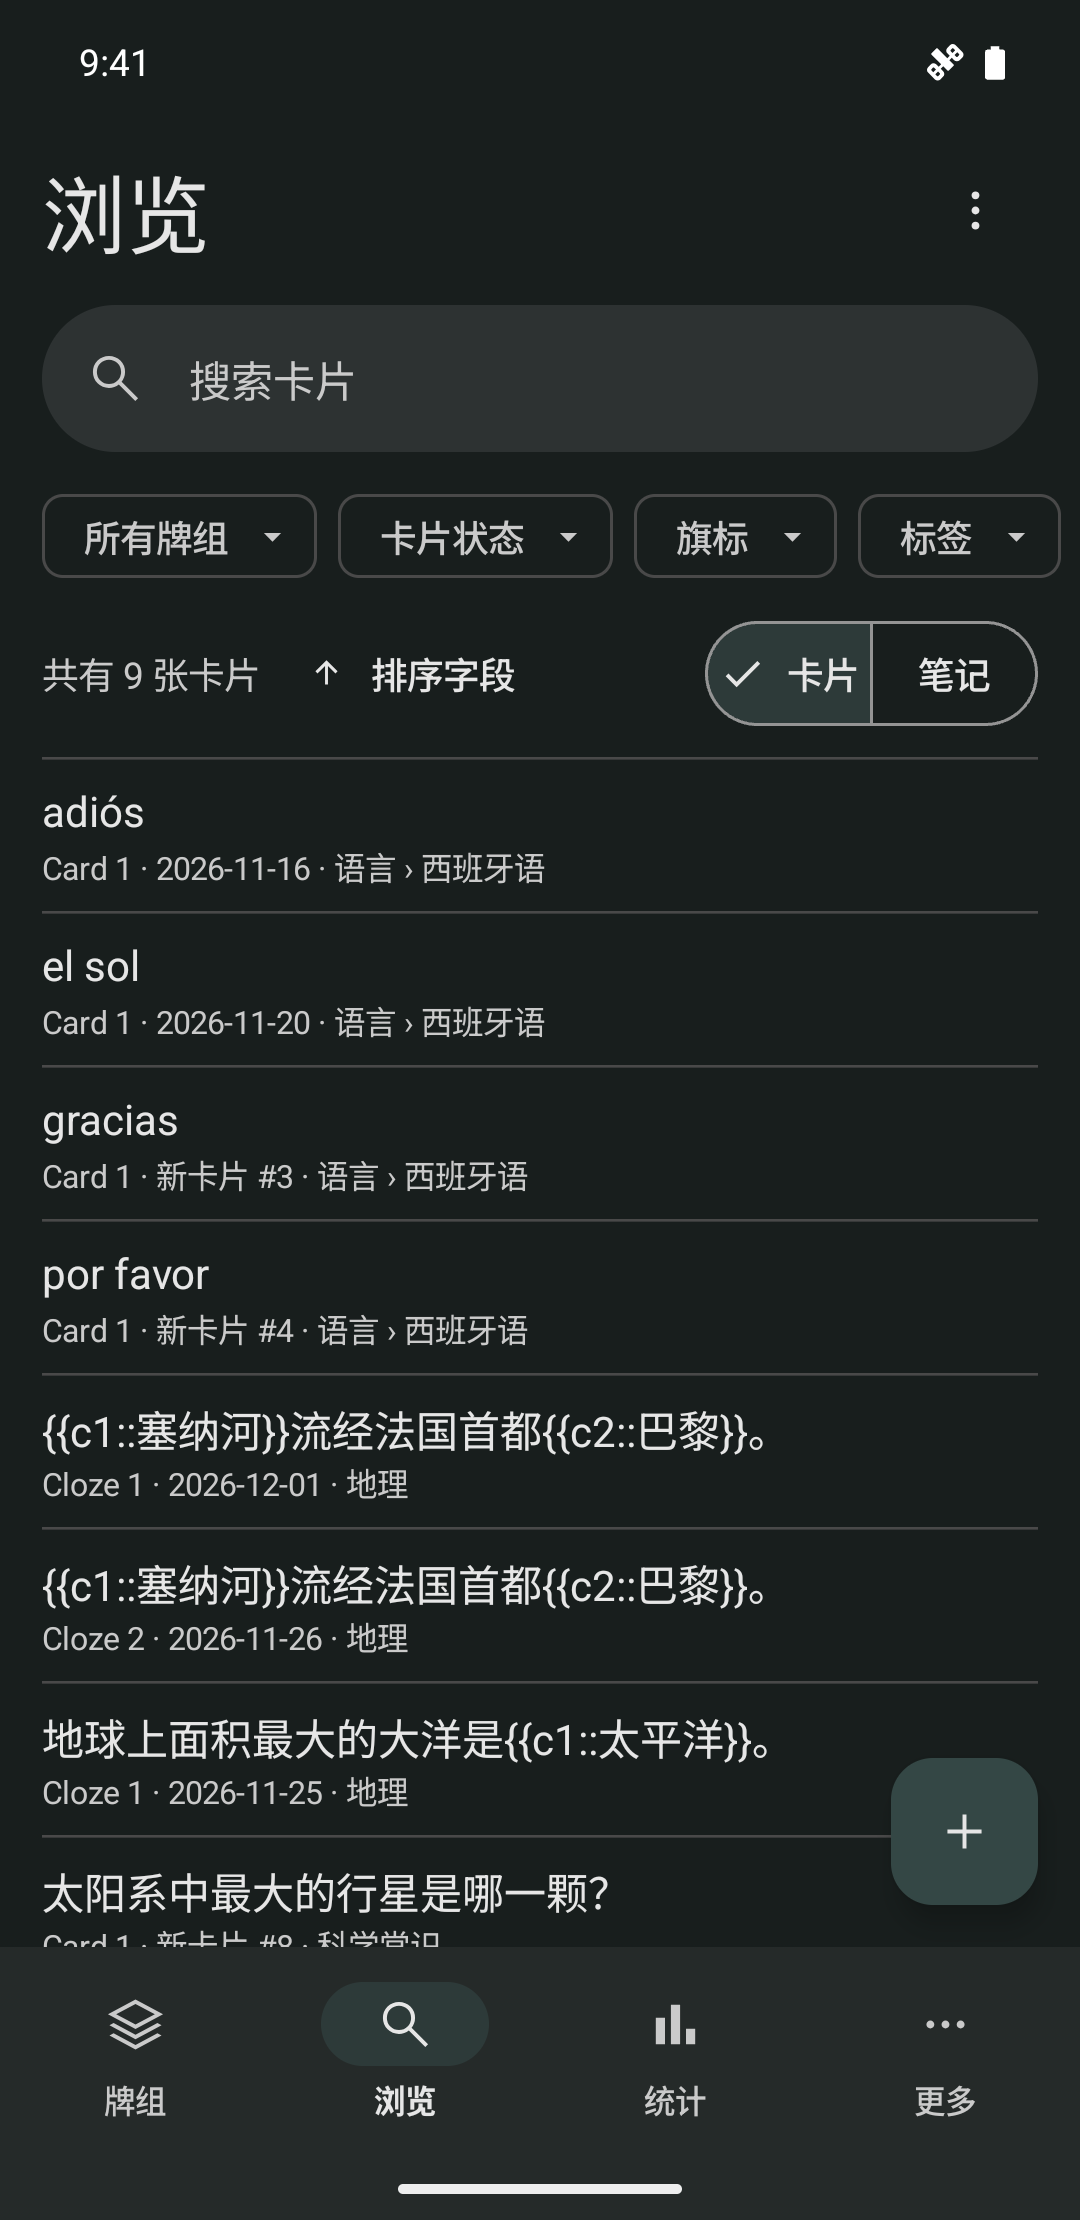
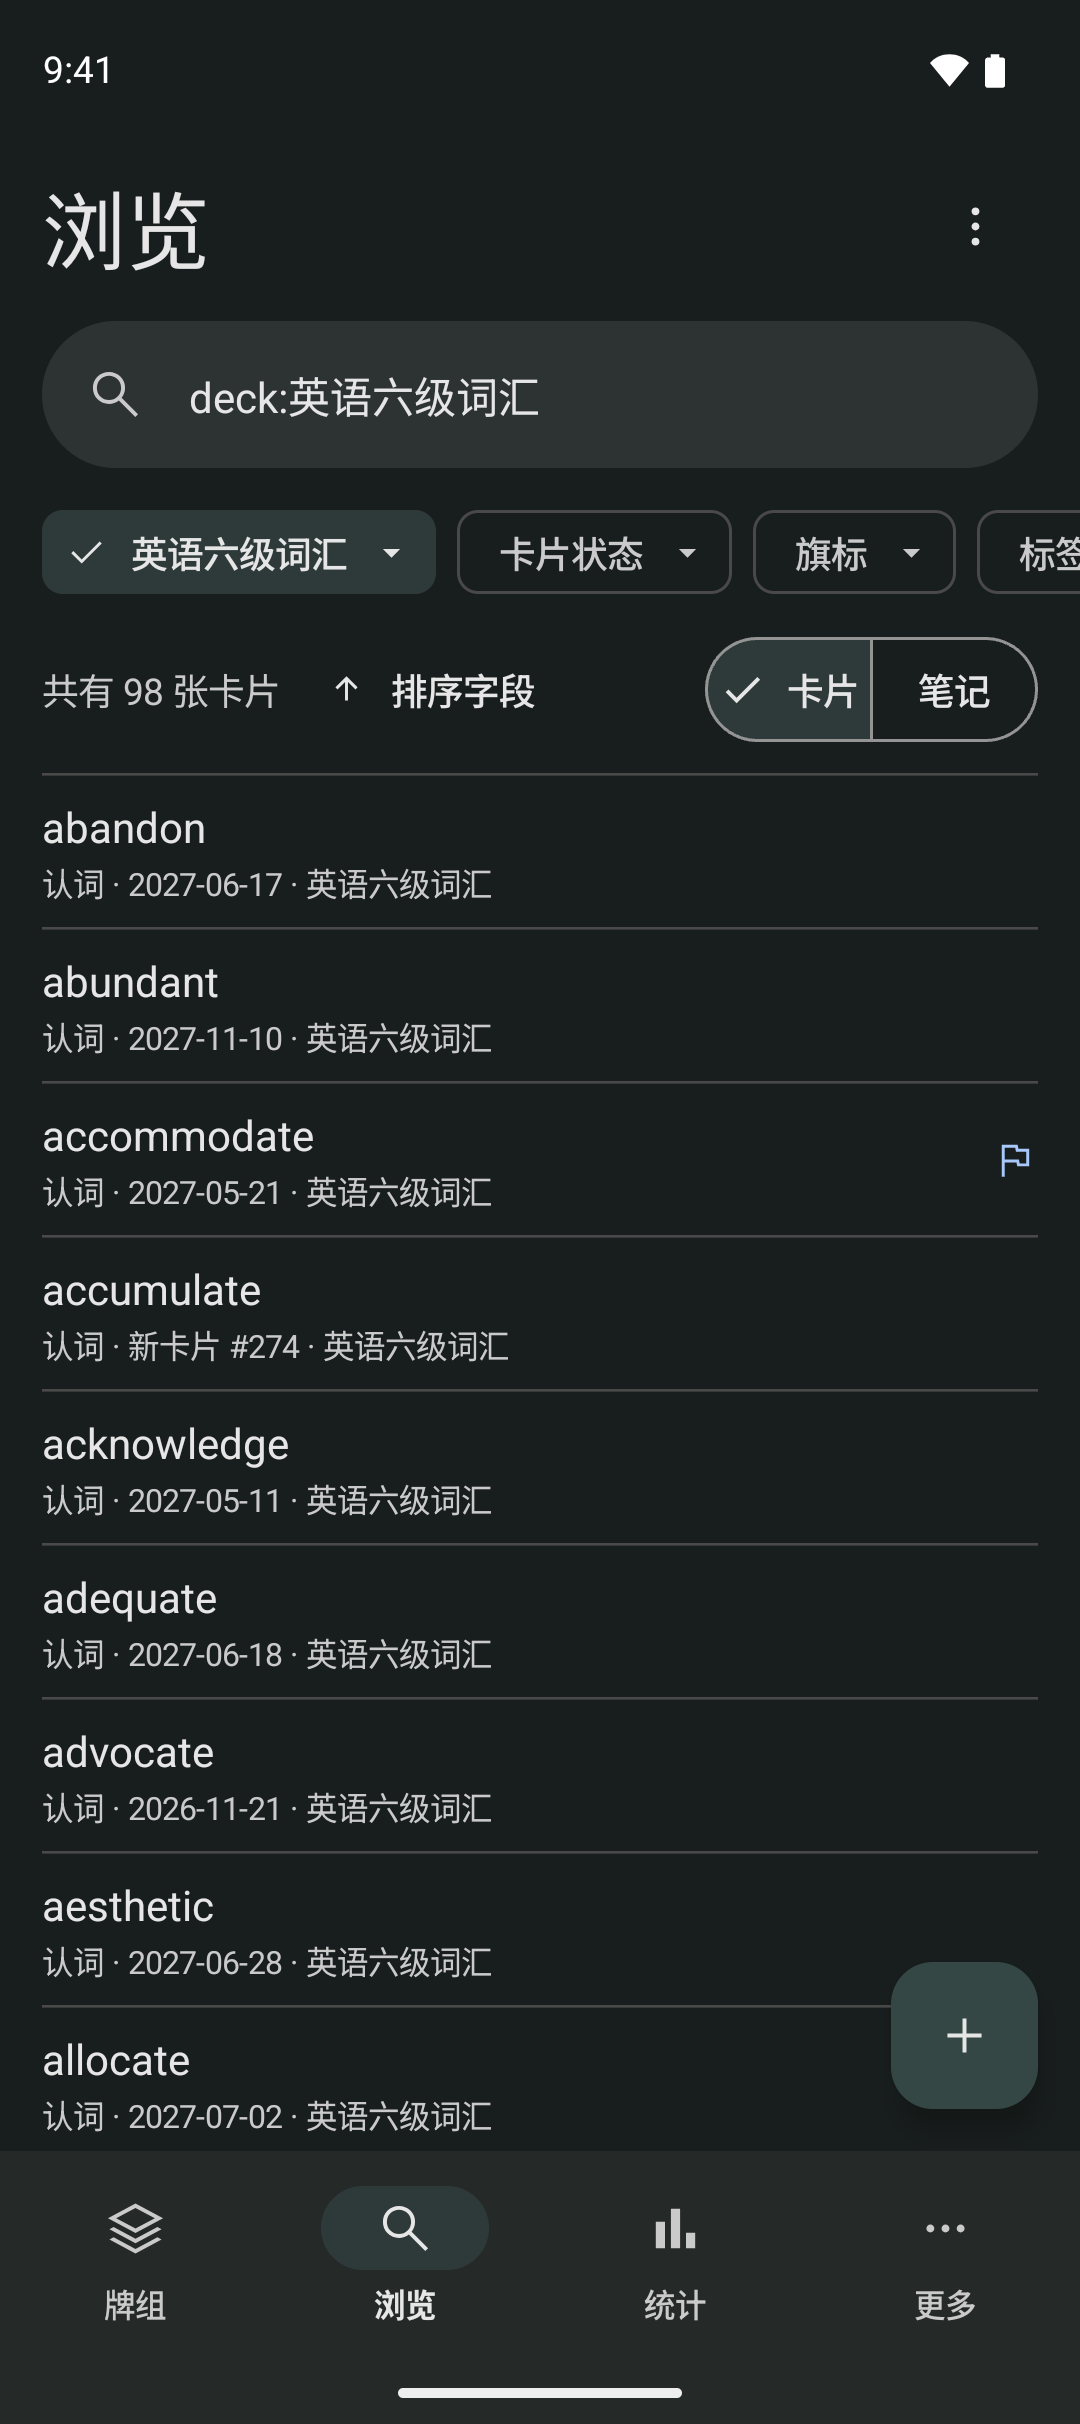
Lead the READMEs with a three-screen showcase of the sample collection
Replace the decks, answer and session-summary row with one composed image
per language: today's decks, an illustrated vocabulary answer and the dark
card browser. Refresh the Chinese browser and statistics screenshots from
the same sample collection.

diff --git a/README.zh-CN.md b/README.zh-CN.md
@@ -14,9 +14,9 @@
 
 打开 Hayaki，就能看到今天每个牌组有多少张新卡、多少张待复习。可以选一副牌，也可以点「全部学习」，依次学完多个牌组。先回忆，再翻开答案，按记忆程度评分。Anki 调度器会据此安排下次复习。
 
-| 今天学什么 | 翻开答案并评分 | 看本次学习记录 |
-| :---: | :---: | :---: |
-| [<img src="docs/images/zh-decks.png" width="260" alt="牌组首页列出地理、科学常识和语言，今天有 9 张卡片要学">](docs/images/zh-decks.png) | [<img src="docs/images/zh-study-answer.png" width="260" alt="地理卡片翻开答案，底部列出四个评分及对应的复习间隔">](docs/images/zh-study-answer.png) | [<img src="docs/images/zh-finished.png" width="260" alt="地理牌组学完后显示本次复习张数、用时和评分分布">](docs/images/zh-finished.png) |
+<p align="center"><img src="docs/images/zh-showcase.webp" width="820" alt="Hayaki 安卓版界面：牌组首页显示今天要学 72 张卡片，带插画的英语六级单词答案及四个评分，以及深色模式下的卡片浏览页"></p>
+
+<p align="center"><sub>截图来自真实应用，使用示例集合和模拟的学习记录。</sub></p>
 
 ## 用自己的牌组学习
 
@@ -27,7 +27,7 @@
 
 ## 回看复习记录
 
-日历里每一格代表一天。下方柱状图展示了这份示例集合在最近 31 天里完成的 742 次复习。
+日历里每一格代表一天。下方柱状图展示了这份示例集合在最近 31 天里完成的 764 次复习。
 
 <p align="center"><a href="docs/images/zh-statistics.png"><img src="docs/images/zh-statistics.png" width="530" alt="统计页显示全年的学习日历，以及最近一个月每天的复习量"></a></p>
 

diff --git a/README.md b/README.md
@@ -14,9 +14,9 @@
 
 Open Hayaki to see what’s due across your decks. Pick one deck or tap **Study All** to work through them in sequence. Reveal the answer, then rate how well you remembered it. The Anki scheduler uses that rating to decide when the card comes back.
 
-| Today’s decks | Reveal and rate | Session summary |
-| :---: | :---: | :---: |
-| [<img src="docs/images/en-decks.png" width="260" alt="72 cards left to study today across Japanese, Science and Spanish, with World Capitals done for today">](docs/images/en-decks.png) | [<img src="docs/images/en-study-answer.png" width="260" alt="A Japanese vocabulary answer with furigana, a pronunciation button, an example sentence and four ratings with their next review intervals">](docs/images/en-study-answer.png) | [<img src="docs/images/en-finished.png" width="260" alt="Geography finished with three reviews in 25 seconds">](docs/images/en-finished.png) |
+<p align="center"><img src="docs/images/en-showcase.webp" width="820" alt="Hayaki on Android showing today’s decks with 72 cards to study, an illustrated Japanese vocabulary answer with four ratings, and the card browser in dark mode"></p>
+
+<p align="center"><sub>Screenshots of the app with a sample collection and simulated study history.</sub></p>
 
 ## Study with your own cards
 
